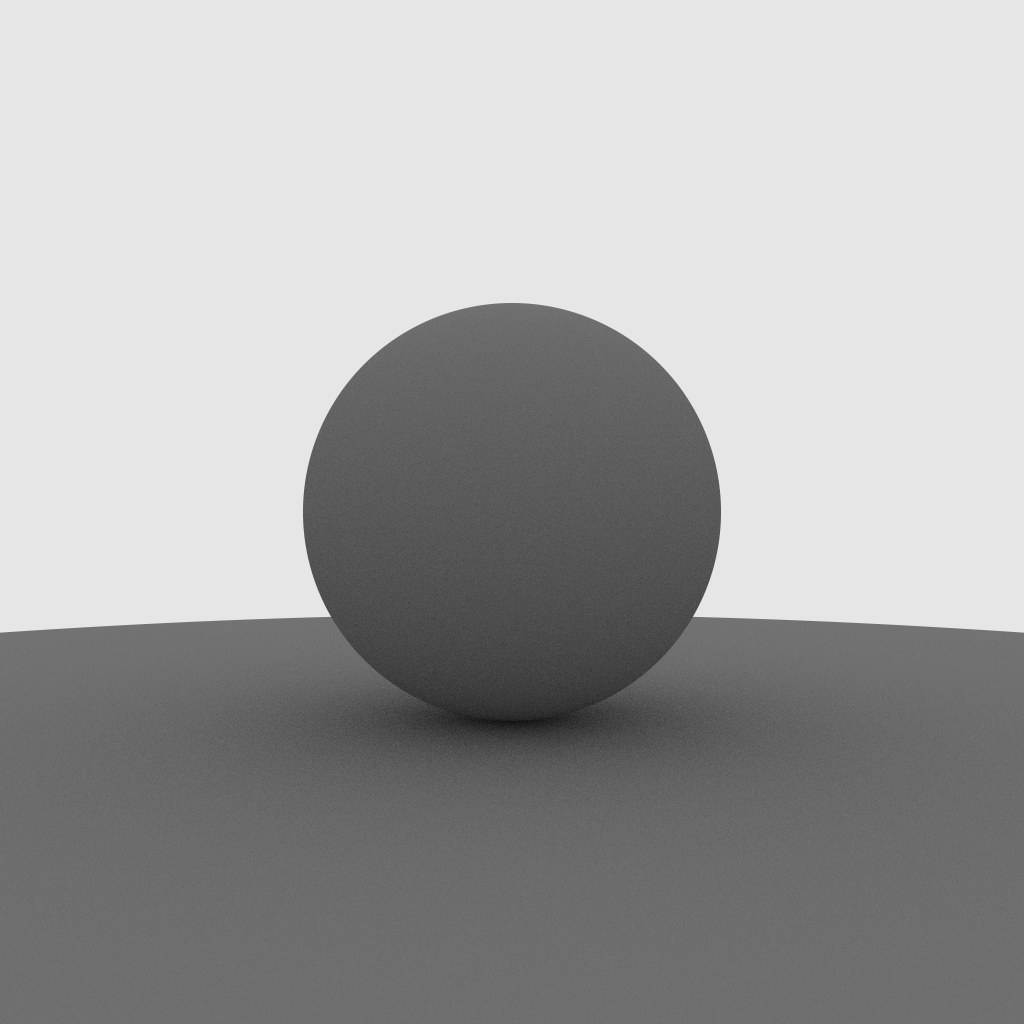
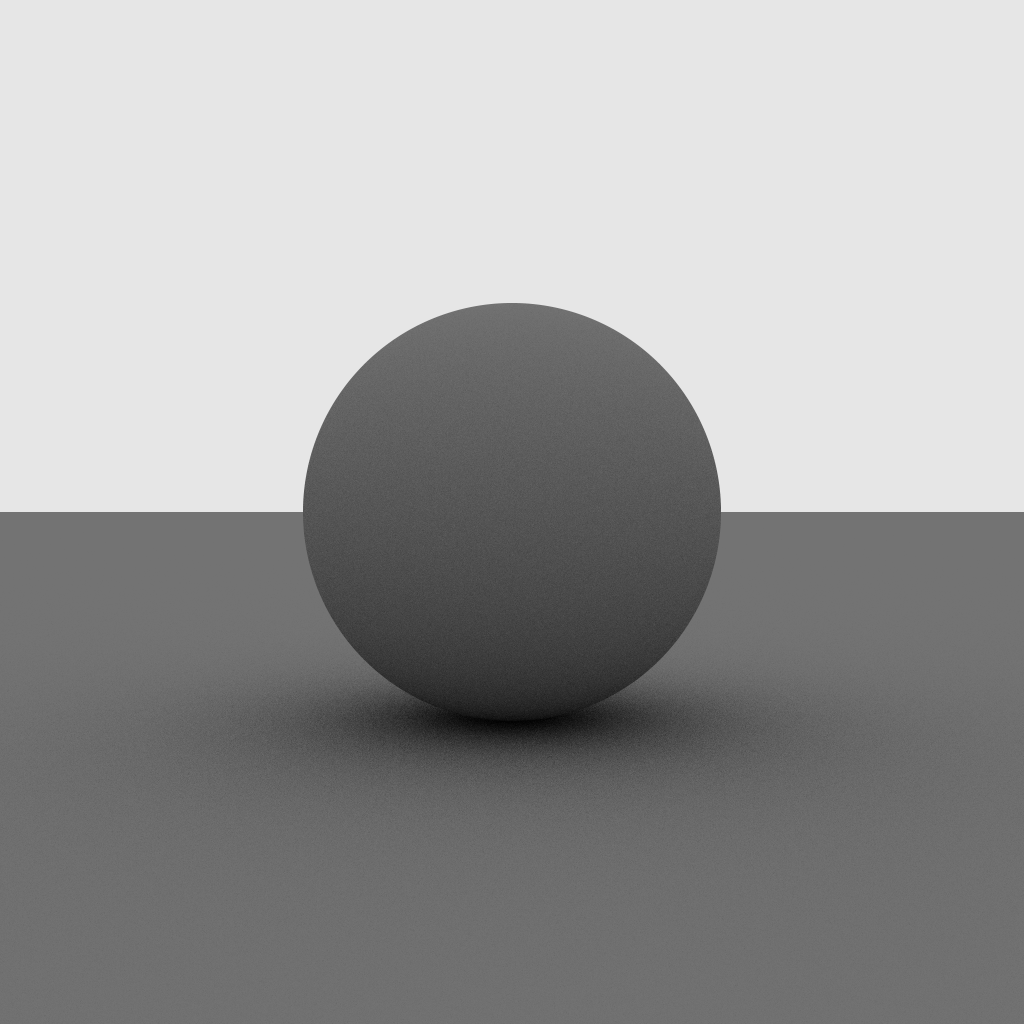
Lambertian reflection

Changed region(s): [[0.6875, 0.5, 1.0, 0.625], [0.0, 0.5, 0.3125, 0.625], [0.375, 0.6875, 0.625, 0.7188]]

diff --git a/src/main.rs b/src/main.rs
@@ -1,6 +1,6 @@
 use image::{Rgb32FImage, RgbImage, Rgb, ImageBuffer, buffer::ConvertBuffer, Pixel};
 use rand::Rng;
-use std::{ops, io::{self, Write}};
+use std::ops;
 use rayon::iter::ParallelIterator;
 
 #[derive(Copy, Clone, Debug)]
@@ -196,12 +196,16 @@ fn get_color(ray: Ray, depth: u32) -> image::Rgb<f32> {
         radius: 1.0,
     };
 
-    let sphere2 = Geometry::Sphere {
+    let _sphere2 = Geometry::Sphere {
         center: Vec3(0.0, -101.0, -5.0),
         radius: 100.0
     };
 
-    let world = [sphere, sphere2];
+    let plane = Geometry::Plane {
+        y: -1.0,
+    };
+
+    let world = [sphere, plane];
 
     let mut max_t = f64::INFINITY;
     let mut result = None;
@@ -213,16 +217,9 @@ fn get_color(ray: Ray, depth: u32) -> image::Rgb<f32> {
     }
 
     if let Some(result) = result {
-        let random = {
-            let unit = Vec3::random_unit();
-            if unit.dot(result.normal) > 0.0 {
-                unit
-            } else {
-                -unit
-            }
-        };
-        //return get_normal_color(result.normal);
-        return get_color(Ray { origin: result.position, direction: random}, depth-1).map(|ch| 0.5*ch);
+        // lambertian reflection
+        let scatter_vec = (result.normal + Vec3::random_unit()).unit();
+        return get_color(Ray { origin: result.position, direction: scatter_vec}, depth-1).map(|ch| 0.5*ch);
     } else {
         Rgb([0.9, 0.9, 0.9])
     }
